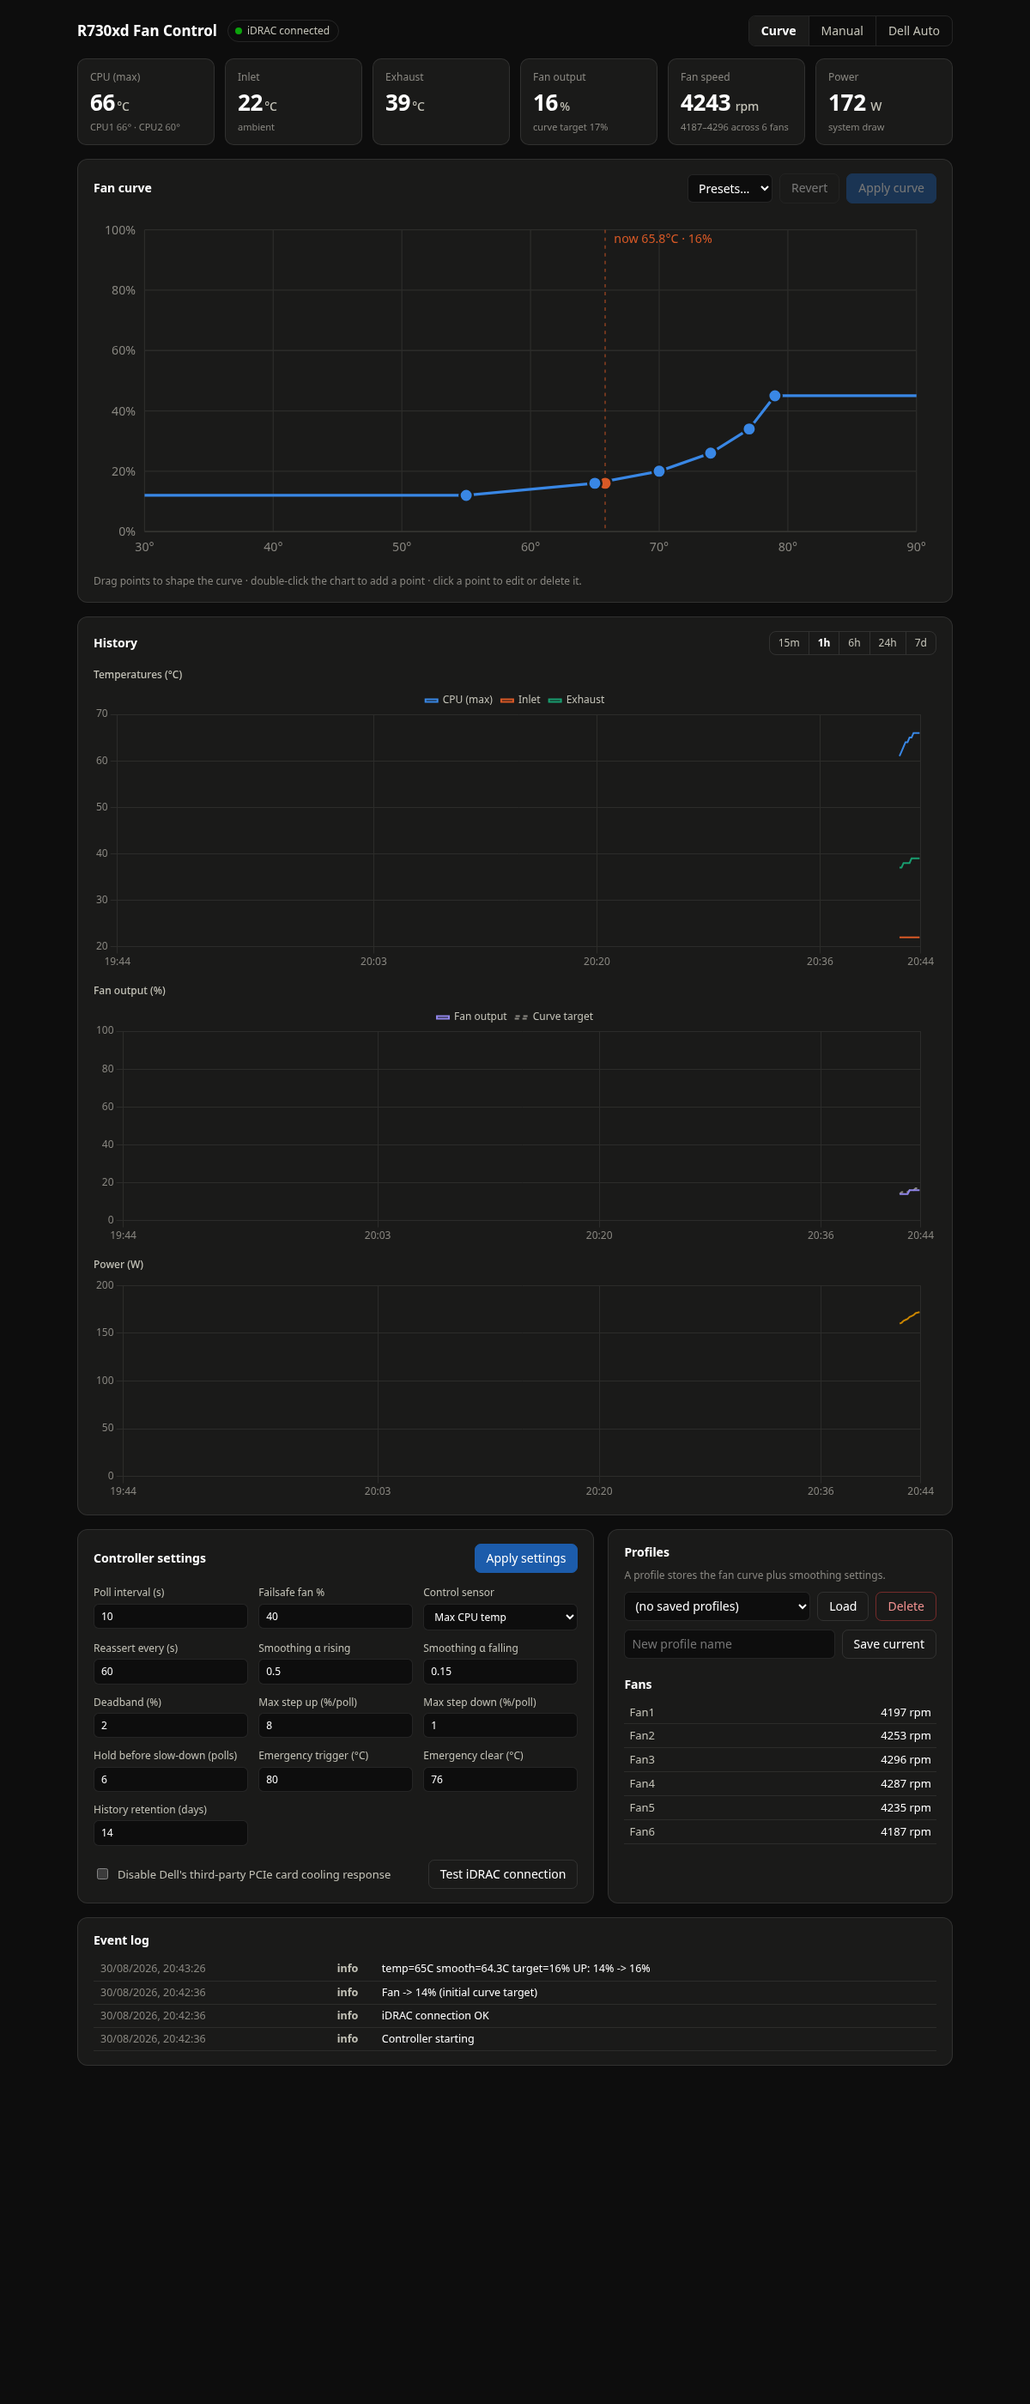
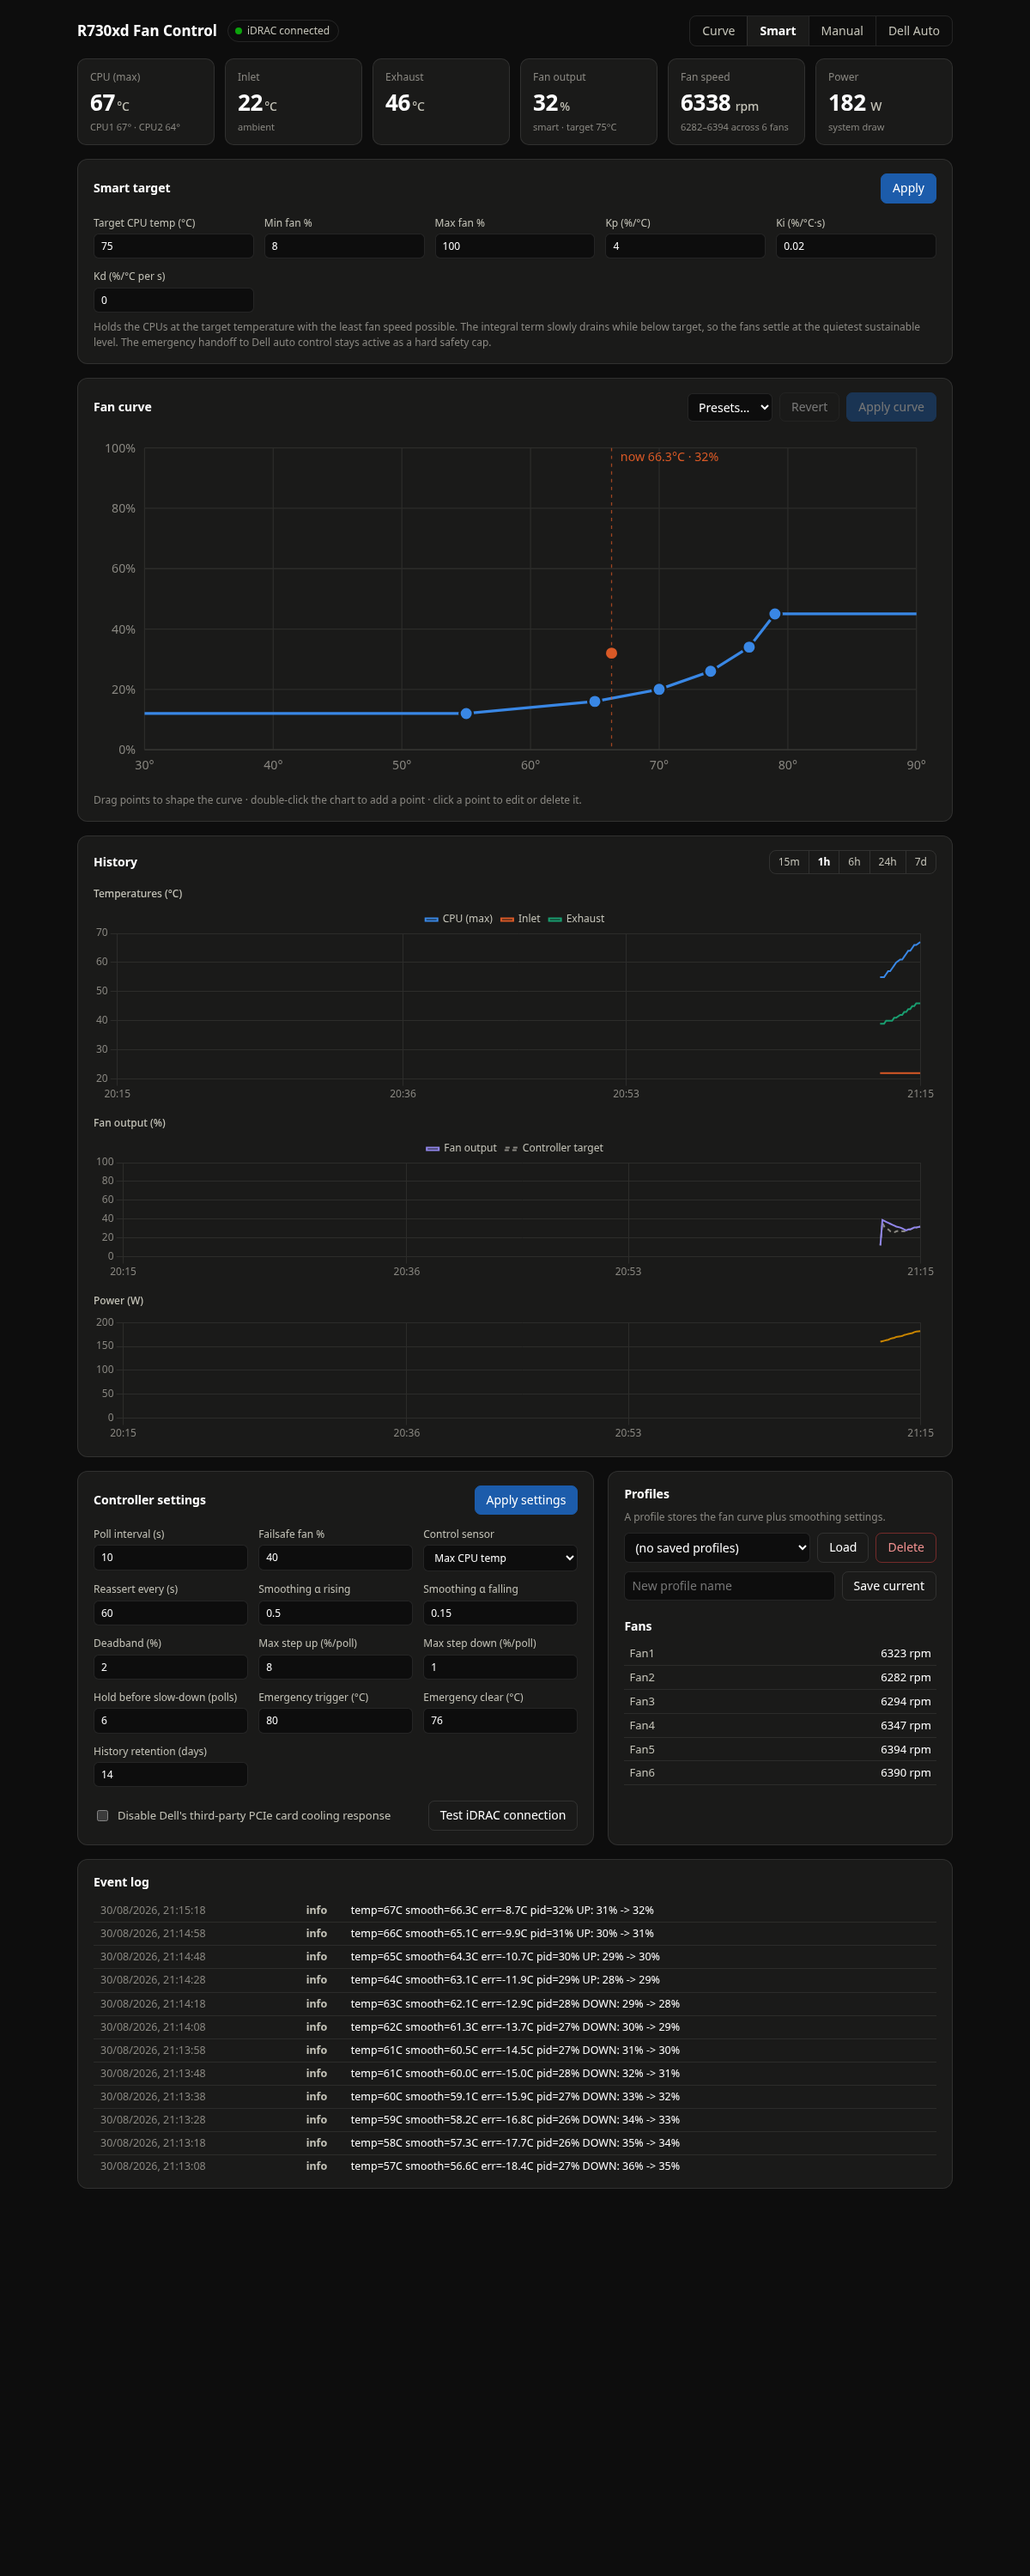
changes

diff --git a/app/static/index.html b/app/static/index.html
@@ -15,6 +15,7 @@
   </div>
   <div class="mode-switch" id="mode-switch">
     <button data-mode="curve">Curve</button>
+    <button data-mode="pid">Smart</button>
     <button data-mode="manual">Manual</button>
     <button data-mode="dell">Dell Auto</button>
   </div>
@@ -30,6 +31,21 @@
     <div class="tile"><span class="tile-label">Fan output</span><span class="tile-value" id="t-fan">–</span><span class="tile-sub" id="t-fan-sub"></span></div>
     <div class="tile"><span class="tile-label">Fan speed</span><span class="tile-value" id="t-rpm">–</span><span class="tile-sub" id="t-rpm-sub"></span></div>
     <div class="tile"><span class="tile-label">Power</span><span class="tile-value" id="t-power">–</span><span class="tile-sub">system draw</span></div>
+  </section>
+
+  <section class="card" id="pid-card" hidden>
+    <div class="card-head"><h2>Smart target</h2><button class="btn primary" id="pid-apply">Apply</button></div>
+    <div class="settings-grid">
+      <label>Target CPU temp (°C)<input type="number" id="p-setpoint" min="40" max="95" step="0.5"></label>
+      <label>Min fan %<input type="number" id="p-min" min="0" max="100"></label>
+      <label>Max fan %<input type="number" id="p-max" min="0" max="100"></label>
+      <label>Kp (%/°C)<input type="number" id="p-kp" min="0" max="50" step="0.5"></label>
+      <label>Ki (%/°C·s)<input type="number" id="p-ki" min="0" max="2" step="0.005"></label>
+      <label>Kd (%/°C per s)<input type="number" id="p-kd" min="0" max="100" step="0.5"></label>
+    </div>
+    <p class="hint">Holds the CPUs at the target temperature with the least fan speed possible.
+    The integral term slowly drains while below target, so the fans settle at the quietest sustainable level.
+    The emergency handoff to Dell auto control stays active as a hard safety cap.</p>
   </section>
 
   <section class="card" id="manual-card" hidden>
@@ -78,9 +94,9 @@
         <button data-sec="604800">7d</button>
       </div>
     </div>
-    <div class="chart-panel"><h3>Temperatures (°C)</h3><canvas id="chart-temps" height="170"></canvas></div>
-    <div class="chart-panel"><h3>Fan output (%)</h3><canvas id="chart-fan" height="120"></canvas></div>
-    <div class="chart-panel"><h3>Power (W)</h3><canvas id="chart-power" height="100"></canvas></div>
+    <div class="chart-panel"><h3>Temperatures (°C)</h3><div class="chart-box" style="height:230px"><canvas id="chart-temps"></canvas></div></div>
+    <div class="chart-panel"><h3>Fan output (%)</h3><div class="chart-box" style="height:170px"><canvas id="chart-fan"></canvas></div></div>
+    <div class="chart-panel"><h3>Power (W)</h3><div class="chart-box" style="height:150px"><canvas id="chart-power"></canvas></div></div>
   </section>
 
   <div class="two-col">

diff --git a/app/static/app.js b/app/static/app.js
@@ -259,7 +259,7 @@ const chTemps = lineChart("chart-temps", [
 
 const chFan = lineChart("chart-fan", [
   { label: "Fan output", borderColor: COLORS.fan, data: [] },
-  { label: "Curve target", borderColor: COLORS.muted, borderDash: [5, 4], data: [] },
+  { label: "Controller target", borderColor: COLORS.muted, borderDash: [5, 4], data: [] },
 ], { yMin: 0, yMax: 100, unit: "%", legend: true });
 
 const chPower = lineChart("chart-power", [
@@ -339,6 +339,7 @@ function renderStatus() {
     mode === "dell" || status.degraded ? "Dell auto control" :
     status.emergency ? "emergency — Dell auto" :
     mode === "manual" ? "manual" :
+    mode === "pid" ? `smart · target ${config ? config.pid.setpoint : "?"}°C` :
     status.target_pct != null ? `curve target ${status.target_pct}%` : "curve";
   if (status.fan_pct == null) $("t-fan").textContent = mode === "dell" ? "auto" : "–";
 
@@ -350,6 +351,7 @@ function renderStatus() {
   document.querySelectorAll("#mode-switch button").forEach(b =>
     b.classList.toggle("active", b.dataset.mode === mode));
   $("manual-card").hidden = mode !== "manual";
+  $("pid-card").hidden = mode !== "pid";
 
   const tbody = $("fans-table").querySelector("tbody");
   tbody.innerHTML = Object.entries(status.fans || {})
@@ -395,6 +397,8 @@ const S = {
   "s-stepdown": ["smoothing", "max_step_down"], "s-hold": ["smoothing", "down_hold_polls"],
   "s-etrig": ["emergency", "trigger_temp"], "s-eclear": ["emergency", "clear_temp"],
   "s-retention": ["history", "retention_days"],
+  "p-setpoint": ["pid", "setpoint"], "p-min": ["pid", "min_pct"], "p-max": ["pid", "max_pct"],
+  "p-kp": ["pid", "kp"], "p-ki": ["pid", "ki"], "p-kd": ["pid", "kd"],
 };
 
 function fillSettings() {
@@ -408,8 +412,9 @@ function fillSettings() {
   $("manual-value").textContent = `${config.manual_percent}%`;
 }
 
+$("pid-apply").addEventListener("click", () => $("settings-apply").click());
 $("settings-apply").addEventListener("click", async () => {
-  const patch = { temp_source: $("s-source").value, smoothing: {}, emergency: {}, history: {} };
+  const patch = { temp_source: $("s-source").value, smoothing: {}, emergency: {}, history: {}, pid: {} };
   for (const [id, path] of Object.entries(S)) {
     const v = +$(id).value;
     if (path.length === 1) patch[path[0]] = v;

diff --git a/app/static/style.css b/app/static/style.css
@@ -120,8 +120,9 @@ input[type="number"], input[type="text"], select {
 .point-edit label { display: flex; align-items: center; gap: 6px; color: var(--ink-2); font-size: 12px; }
 .point-edit input { width: 72px; }
 
-/* charts */
-.chart-panel canvas { width: 100%; }
+/* charts: the fixed-height positioned box is required — a responsive Chart.js
+   canvas without one resizes against its own height and grows forever */
+.chart-box { position: relative; width: 100%; }
 
 /* settings */
 .settings-grid { display: grid; grid-template-columns: repeat(auto-fill, minmax(170px, 1fr)); gap: 12px; margin-top: 14px; }

diff --git a/app/controller.py b/app/controller.py
@@ -50,6 +50,9 @@ class Controller:
         self.current_pct = None       # what we last commanded (None = not ours)
         self.smooth = None            # EMA of control temp
         self.down_count = 0
+        self.pid_i = 0.0              # PID integral term (in fan %)
+        self.pid_prev = None          # previous smoothed temp, for the D term
+        self.pid_ready = False        # False -> re-initialize bumplessly
         self.emergency = False
         self.degraded = False         # sensor reads failing -> Dell has control
         self.fail_count = 0
@@ -90,6 +93,7 @@ class Controller:
             "smooth_temp": round(self.smooth, 1) if self.smooth is not None else None,
             "fan_pct": self.current_pct,
             "target_pct": self.target_pct,
+            "pid_integral": round(self.pid_i, 1) if self.pid_ready else None,
             "third_party_disabled": self.third_party_disabled,
             "last_update": self.last_update,
             "last_error": self.last_error,
@@ -172,6 +176,7 @@ class Controller:
             self.log("info", f"Mode changed: {self.last_mode} -> {mode}")
             self.emergency = False
             self.down_count = 0
+            self.pid_ready = False
             if mode == "dell":
                 await self.ipmi.set_auto_control()
                 self.current_pct = None
@@ -185,6 +190,7 @@ class Controller:
             self.idrac_ok = True
             if self.degraded:
                 self.degraded = False
+                self.pid_ready = False
                 self.log("info", "Sensor reads recovered; resuming control")
                 if mode != "dell":
                     await self._set_pct(cfg["failsafe_percent"], "recovery baseline")
@@ -238,8 +244,13 @@ class Controller:
                     self.log("info",
                              f"Raw temp {raw_cpu_max}C cleared emergency; reclaiming control")
                     self.smooth = raw
-                    pct = (cfg["manual_percent"] if mode == "manual"
-                           else curve_target(cfg["curve"], raw))
+                    self.pid_ready = False
+                    if mode == "manual":
+                        pct = cfg["manual_percent"]
+                    elif mode == "pid":
+                        pct = cfg["failsafe_percent"]
+                    else:
+                        pct = curve_target(cfg["curve"], raw)
                     await self._set_pct(pct, "post-emergency")
             elif raw_cpu_max >= emerg["trigger_temp"]:
                 self.emergency = True
@@ -250,6 +261,8 @@ class Controller:
                 self.target_pct = cfg["manual_percent"]
                 if self.current_pct != cfg["manual_percent"]:
                     await self._set_pct(cfg["manual_percent"], "manual setting")
+            elif mode == "pid":
+                await self._pid_step(cfg, raw)
             else:
                 await self._curve_step(cfg, raw)
 
@@ -268,6 +281,64 @@ class Controller:
             rpm=sum(rpms) / len(rpms) if rpms else None,
             power=self.power, mode=mode,
             emergency=self.emergency or self.degraded)
+
+    async def _pid_step(self, cfg, raw):
+        """Hold pid.setpoint using the least fan possible.
+
+        PI(D) on the smoothed temperature. The integral term is what finds the
+        quietest sustainable fan level: while the CPU sits below the setpoint
+        it slowly drains, letting the fans creep down until the temperature
+        rises to meet the target. Anti-windup by back-calculation keeps the
+        integral honest at the output clamps. Output changes are slew-limited
+        with the same up/down rates as curve mode so decay stays silent.
+        """
+        p, s = cfg["pid"], cfg["smoothing"]
+        if self.smooth is None:
+            self.smooth = float(raw)
+        else:
+            alpha = s["alpha_up"] if raw > self.smooth else s["alpha_down"]
+            self.smooth += (raw - self.smooth) * alpha
+
+        dt = max(1, cfg["poll_interval"])
+        err = self.smooth - p["setpoint"]
+        d = 0.0
+        if self.pid_prev is not None and self.pid_ready:
+            d = p["kd"] * (self.smooth - self.pid_prev) / dt
+        self.pid_prev = self.smooth
+
+        if not self.pid_ready:
+            # bumpless start: pick the integral so output == current fan level
+            base = self.current_pct if self.current_pct is not None else cfg["failsafe_percent"]
+            self.pid_i = float(base) - p["kp"] * err
+            self.pid_ready = True
+            self.log("info", f"Smart mode engaged: target {p['setpoint']}C, "
+                             f"starting from {base}%")
+
+        self.pid_i += p["ki"] * err * dt
+        out = p["kp"] * err + self.pid_i + d
+        if out > p["max_pct"]:
+            self.pid_i -= out - p["max_pct"]
+            out = p["max_pct"]
+        elif out < p["min_pct"]:
+            self.pid_i += p["min_pct"] - out
+            out = p["min_pct"]
+
+        target = int(round(out))
+        self.target_pct = target
+        if self.current_pct is None:
+            await self._set_pct(target, "initial smart target")
+            return
+
+        step = target - self.current_pct
+        step = min(step, s["max_step_up"]) if step > 0 else max(step, -s["max_step_down"])
+        new_pct = self.current_pct + step
+        if new_pct != self.current_pct:
+            direction = "UP" if step > 0 else "DOWN"
+            old = self.current_pct
+            await self._set_pct(new_pct)
+            self.log("info",
+                     f"temp={raw}C smooth={self.smooth:.1f}C err={err:+.1f}C "
+                     f"pid={target}% {direction}: {old}% -> {new_pct}%")
 
     async def _curve_step(self, cfg, raw):
         s = cfg["smoothing"]

diff --git a/app/config.py b/app/config.py
@@ -37,11 +37,19 @@ DEFAULT_CONFIG = {
         "trigger_temp": 80,       # raw temp >= this -> failsafe + Dell auto
         "clear_temp": 76,         # raw temp <= this -> reclaim manual control
     },
+    "pid": {                      # "smart" mode: hold setpoint with minimum fan
+        "setpoint": 75,           # target CPU temp (C)
+        "kp": 4.0,                # % fan per degree of error
+        "ki": 0.02,               # % fan per degree-second (steady-state term)
+        "kd": 0.0,                # % fan per (degree/second) of temp slope
+        "min_pct": 8,
+        "max_pct": 100,
+    },
     "history": {"retention_days": 14},
     "profiles": {},               # name -> {curve, smoothing}
 }
 
-MODES = ("curve", "manual", "dell")
+MODES = ("curve", "pid", "manual", "dell")
 TEMP_SOURCES = ("cpu_max", "cpu_avg", "all_max")
 
 
@@ -91,6 +99,17 @@ def validate(cfg):
     s["max_step_down"] = int(_num(s.get("max_step_down"), 1, 100, "max_step_down"))
     s["down_hold_polls"] = int(_num(s.get("down_hold_polls"), 0, 120, "down_hold_polls"))
     c["smoothing"] = s
+
+    p = c.get("pid", {})
+    p["setpoint"] = round(float(_num(p.get("setpoint"), 40, 95, "pid setpoint")), 1)
+    p["kp"] = round(float(_num(p.get("kp"), 0, 50, "pid kp")), 3)
+    p["ki"] = round(float(_num(p.get("ki"), 0, 2, "pid ki")), 4)
+    p["kd"] = round(float(_num(p.get("kd"), 0, 100, "pid kd")), 3)
+    p["min_pct"] = int(_num(p.get("min_pct"), 0, 100, "pid min_pct"))
+    p["max_pct"] = int(_num(p.get("max_pct"), 0, 100, "pid max_pct"))
+    if p["max_pct"] <= p["min_pct"]:
+        raise ValueError("pid max_pct must be above min_pct")
+    c["pid"] = p
 
     e = c.get("emergency", {})
     e["trigger_temp"] = int(_num(e.get("trigger_temp"), 40, 105, "trigger_temp"))

diff --git a/app/ipmi.py b/app/ipmi.py
@@ -142,6 +142,8 @@ class MockIpmi(Ipmi):
         self._pct = 40
         self._manual = False
         self._third_party_disabled = False
+        self._cpu = 55.0
+        self._last = time.time()
 
     def _wave(self, base, amp, period, phase=0.0):
         return base + amp * math.sin((time.time() - self._t0) / period + phase)
@@ -150,12 +152,19 @@ class MockIpmi(Ipmi):
         return None
 
     async def read_temps(self):
-        load = max(0.0, self._wave(0.5, 0.55, 300))
+        # First-order thermal model that responds to fan speed, so closed-loop
+        # control (PID) actually converges in mock mode.
+        now = time.time()
+        dt = min(now - self._last, 60.0)
+        self._last = now
+        load = max(0.05, self._wave(0.55, 0.45, 300))          # 0.05 .. 1.0
+        equilibrium = 32 + load * 62 - 0.32 * self._pct
+        self._cpu += (equilibrium - self._cpu) * (1 - math.exp(-dt / 45))
         return {
             "Inlet Temp": round(self._wave(22, 1, 900)),
-            "Exhaust Temp": round(30 + load * 14),
-            "CPU1 Temp": round(48 + load * 26 + self._wave(0, 1.5, 37)),
-            "CPU2 Temp": round(45 + load * 22 + self._wave(0, 1.5, 53, 1.0)),
+            "Exhaust Temp": round(self._cpu * 0.5 + 12),
+            "CPU1 Temp": round(self._cpu + self._wave(0, 1.2, 37)),
+            "CPU2 Temp": round(self._cpu - 3 + self._wave(0, 1.2, 53, 1.0)),
         }
 
     async def read_fans(self):

diff --git a/README.md b/README.md
@@ -13,7 +13,9 @@ Portainer — instead of on the Proxmox host itself.
 - **Web UI** (LAN-only, no auth): live temps, per-fan RPM, fan output %, power draw.
 - **Fan curve editor**: drag points, double-click to add, per-point numeric edit,
   Silent / Balanced / Cool presets.
-- **Three modes**: Curve (smart control), Manual (fixed %), Dell Auto (hands off).
+- **Four modes**: Curve, **Smart (PID)** — hold a target CPU temperature with the
+  minimum fan speed (the integral term drains while below target, so the fans
+  settle at the quietest sustainable level), Manual (fixed %), Dell Auto.
 - **The original quiet-first algorithm**, ported intact:
   - control temp = max(CPU1, CPU2) (or avg CPU / max of all sensors),
   - asymmetric EMA smoothing — rises track fast, falls track slow,
